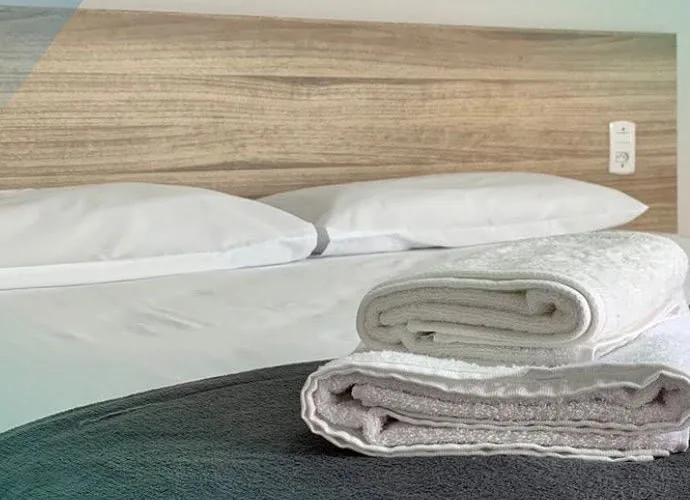
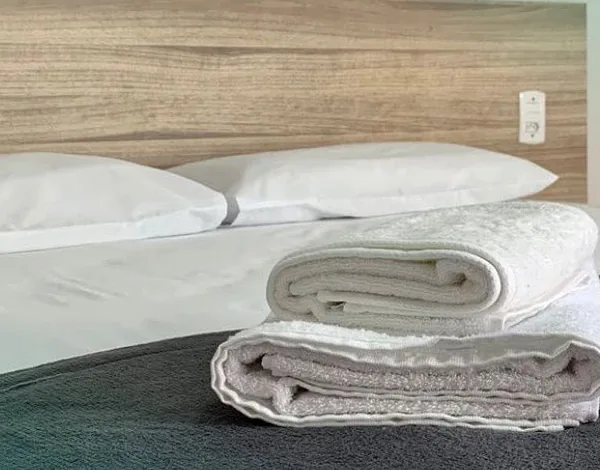
Aplica a revisão adversarial na página do Hotel Via Sul
- descrição sem "café gratuito" (só Wi-Fi e estacionamento têm fonte);
- guia: o atalho dos postos promete endereços, bandeiras e produtos,
  que é o que a página mostra (não há preço);
- distâncias separadas em todo lugar: Prefeitura a cerca de 250 m e
  Câmara a cerca de 270 m; sai o "comércio no caminho", sem fonte;
- a pergunta deixa de sugerir exclusividade ("O Hotel Via Sul fica no
  centro de Piracanjuba?"), e o h2 vira "Um hotel no centro";
- avaliações: cortes marcados com (...), sobrenome abreviado,
  "trechos selecionados de avaliações de 5 estrelas" e a atribuição
  fora da citação, em figcaption;
- fotos: legendas e textos alternativos conferidos com as imagens;
  sala de estar e cama refeitas sem restos da arte dos posts;
- schema sem ar-condicionado (fonte só nas avaliações); a FAQ deixa
  de convidar a ligar no fixo, que segue no bloco de contato;
- foco em azul-marinho nas seções claras (o turquesa não chega a 3:1),
  espaços entre textos que o CSS separa, último card de comodidades
  ocupando a linha no celular;
- IndexNow: mudanças em src/data/hotel-via-sul.ts reenviam /hotel e
  /zap-pba.

diff --git a/src/app/hotel/page.tsx b/src/app/hotel/page.tsx
@@ -36,17 +36,17 @@ const comodidades = [
 
 const fotos = [
   { src: "/quarto.webp", largura: 610, altura: 500, legenda: "Quarto com mesa de trabalho, TV e banheiro", alt: "Quarto do Hotel Via Sul com cama arrumada e toalhas, mesa de trabalho preta, TV na parede, frigobar e a porta do banheiro" },
-  { src: "/cama-toalhas.webp", largura: 690, altura: 500, legenda: "Cama arrumada com toalhas para a chegada", alt: "Cama de casal com cabeceira de madeira, travesseiros brancos e toalhas dobradas sobre a manta" },
+  { src: "/cama-toalhas.webp", largura: 600, altura: 470, legenda: "Cama arrumada com toalhas para a chegada", alt: "Cama de casal com cabeceira de madeira, travesseiros brancos e toalhas dobradas sobre a manta" },
   { src: "/salao-cafe.webp", largura: 1080, altura: 1350, legenda: "Salão do café da manhã", alt: "Salão do café da manhã com mesas de madeira, cadeiras pretas e parede de vidro" },
-  { src: "/cafe-da-manha.webp", largura: 640, altura: 800, legenda: "Pão de queijo, pão, bolo, frutas e suco", alt: "Prato com pão de queijo, pão e bolo, melancia em fatias e um copo de suco de laranja" },
-  { src: "/sala-estar.webp", largura: 1080, altura: 840, legenda: "Sala de estar perto da recepção", alt: "Sofá com almofadas azuis, cômoda de madeira e plantas na sala de estar do hotel" },
-  { src: "/recepcao-janela.webp", largura: 1080, altura: 1080, legenda: "Recepção com vista para a rua", alt: "Recepção do hotel com poltrona, planta e parede de vidro com o logotipo do Via Sul voltada para a rua" },
+  { src: "/cafe-da-manha.webp", largura: 640, altura: 800, legenda: "Pão de queijo, pão com queijo e frios, bolo, melancia e suco", alt: "Dois pratos, um com pão de queijo, pão com queijo e frios e bolo, outro com fatias de melancia, e um copo de suco" },
+  { src: "/sala-estar.webp", largura: 1080, altura: 640, legenda: "Sala de estar do hotel", alt: "Sofá marrom com manta xadrez azul-marinho, almofadas turquesa e cinza, criado-mudo de madeira e plantas" },
+  { src: "/recepcao-janela.webp", largura: 1080, altura: 1080, legenda: "Recepção com vista para a rua", alt: "Recepção do hotel com poltrona, planta em vaso e parede de vidro voltada para a rua, com o letreiro do Via Sul Hotel do lado de fora" },
 ];
 
 const perfis = [
   {
     titulo: "Viagem a trabalho",
-    texto: "Para técnicos, vendedores e quem atende o agronegócio da região: Wi-Fi gratuito, café da manhã e a Prefeitura, a Câmara e o comércio do centro a poucos minutos a pé.",
+    texto: "Para técnicos, vendedores e quem atende o agronegócio da região: Wi-Fi gratuito, café da manhã e a Prefeitura e a Câmara a poucos minutos a pé.",
   },
   {
     titulo: "Família, festas e eventos",
@@ -59,23 +59,23 @@ const perfis = [
 ];
 
 const avaliacoes = [
-  { autor: "Luan Henrique", texto: "Ótimo hotel, muito bem organizado, limpo, cafe da manha nota 10 e os recepcionistas sempre muito receptivos e atenciosos." },
-  { autor: "Rogerio Souza", contexto: "Viagem a negócios", texto: "Minha estadia foi excelente, atendimento fantástico, equipe de profissionais que estão de parabéns, pessoas educadas que deixam a gente bem à vontade." },
-  { autor: "Wesley Garcia", contexto: "Férias em casal", texto: "Foi ótimo passar uma diária neste hotel, quarto e banheiro tudo limpinho e higienizado, atendimento excelente." },
+  { autor: "Luan H.", texto: "Ótimo hotel, muito bem organizado, limpo, cafe da manha nota 10 e os recepcionistas sempre muito receptivos e atenciosos." },
+  { autor: "Rogerio S.", contexto: "Viagem a negócios", texto: "Minha estadia foi excelente, atendimento fantástico, equipe de profissionais que estão de parabéns, pessoas educadas que deixam a gente bem à vontade (...)" },
+  { autor: "Wesley G.", contexto: "Férias em casal", texto: "Foi ótimo passar uma diária neste hotel, quarto e banheiro tudo limpinho e higienizado, atendimento excelente (...)" },
 ];
 
 const guia = [
   { href: "/horarios-onibus", icone: Bus, titulo: "Horários de ônibus", texto: "Linhas que saem da Rodoviária de Piracanjuba." },
   { href: "/clima", icone: CloudSun, titulo: "Clima em Piracanjuba", texto: "Previsão para planejar a chegada e a volta." },
   { href: "/plantao-farmacias", icone: Pill, titulo: "Farmácia de plantão", texto: "Qual farmácia está aberta hoje à noite." },
-  { href: "/postos-combustivel", icone: Fuel, titulo: "Postos de combustível", texto: "Preços e endereços para abastecer na cidade." },
+  { href: "/postos-combustivel", icone: Fuel, titulo: "Postos de combustível", texto: "Endereços, bandeiras e produtos de cada posto, com dados da ANP." },
   { href: "/historia-pba", icone: Landmark, titulo: "História de Piracanjuba", texto: "Origem do nome, fé, festas e o que visitar." },
 ];
 
 const perguntas = [
   {
-    pergunta: "Qual hotel fica no centro de Piracanjuba?",
-    resposta: `O Hotel Via Sul fica no Centro de Piracanjuba, na ${H.endereco}. A Rodoviária está a cerca de 150 metros, e a Prefeitura e a Câmara Municipal, na Praça Wilson Eloy Pimenta, a cerca de 250 metros.`,
+    pergunta: "O Hotel Via Sul fica no centro de Piracanjuba?",
+    resposta: `Sim. O Hotel Via Sul fica no Centro de Piracanjuba, na ${H.endereco}. A Rodoviária está a cerca de 150 metros a pé; a Prefeitura, a cerca de 250 metros, e a Câmara Municipal, a cerca de 270 metros, as duas na Praça Wilson Eloy Pimenta.`,
   },
   {
     pergunta: "Quais são os horários de check-in e check-out?",
@@ -87,7 +87,7 @@ const perguntas = [
   },
   {
     pergunta: "Como reservar o Hotel Via Sul?",
-    resposta: `Mande pelo WhatsApp ${formatarTelefoneBr(H.whatsapp)} as datas de entrada e saída e o número de hóspedes. A recepção confirma a disponibilidade, os valores e as condições. Também dá para ligar no ${formatarTelefoneBr(H.telefoneFixo)} ou escrever para ${H.email}.`,
+    resposta: `Mande pelo WhatsApp ${formatarTelefoneBr(H.whatsapp)} as datas de entrada e saída e o número de hóspedes. A recepção confirma a disponibilidade, os valores e as condições. Também dá para escrever para ${H.email}.`,
   },
   {
     pergunta: "Qual é a nota do Hotel Via Sul no Google?",
@@ -96,7 +96,7 @@ const perguntas = [
 ];
 
 const titulo = "Hotel em Piracanjuba no Centro | Hotel Via Sul";
-const descricao = "Hotel Via Sul, hotel em Piracanjuba no Centro, a cerca de 150 m da Rodoviária. Café da manhã, Wi-Fi e estacionamento gratuitos, recepção 24h e WhatsApp.";
+const descricao = "Hotel Via Sul, hotel em Piracanjuba no Centro, a cerca de 150 m da Rodoviária. Wi-Fi e estacionamento gratuitos, café da manhã, recepção 24h e WhatsApp.";
 const compartilhamento = {
   url: portal + imagens + "/compartilhar.jpg", width: 1200, height: 630,
   alt: "Logotipo do Hotel Via Sul e a recepção do hotel em Piracanjuba",
@@ -137,7 +137,6 @@ const esquema = {
         { "@type": "LocationFeatureSpecification", name: "Wi-Fi gratuito", value: true },
         { "@type": "LocationFeatureSpecification", name: "Estacionamento gratuito", value: true },
         { "@type": "LocationFeatureSpecification", name: "Recepção 24 horas", value: true },
-        { "@type": "LocationFeatureSpecification", name: "Ar-condicionado", value: true },
       ],
       areaServed: { "@type": "City", name: "Piracanjuba", containedInPlace: { "@type": "State", name: "Goiás" } },
     },
@@ -170,7 +169,7 @@ export default function HotelViaSul() {
               <Image src={imagens + "/via-sul-logo-branco.svg"} width={683} height={163} alt="Via Sul Hotel"
                 className={s.logo} loading="eager" unoptimized />
               <h1>Hotel em Piracanjuba, no centro da cidade</h1>
-              <p className={s.lide}>O Hotel Via Sul fica no Centro de Piracanjuba, a cerca de 150 metros da Rodoviária e a cerca de 250 metros da Prefeitura e da Câmara. Recepção 24 horas, Wi-Fi e estacionamento gratuitos, e reserva direto com o hotel pelo WhatsApp.</p>
+              <p className={s.lide}>O Hotel Via Sul fica no Centro de Piracanjuba, a cerca de 150 metros da Rodoviária, 250 metros da Prefeitura e 270 metros da Câmara. Recepção 24 horas, Wi-Fi e estacionamento gratuitos, e reserva direto com o hotel pelo WhatsApp.</p>
               <div className={s.acoes}>
                 <a id={ID_BOTAO_TOPO} href={whatsapp} className={s.botao}><WhatsAppIcon fill="currentColor" /> Reservar pelo WhatsApp</a>
                 <a href={H.mapa} className={s.atalho}><Navigation size={16} aria-hidden="true" /> Como chegar</a>
@@ -198,13 +197,13 @@ export default function HotelViaSul() {
         <div className={s.largura}>
           <div className={s.respostaGrade}>
             <div>
-              <h2 id="titulo-resposta">Qual hotel fica no centro de Piracanjuba?</h2>
-              <p>O Hotel Via Sul está na {H.endereco}, no Centro. Quem chega de ônibus desce na Rodoviária e caminha cerca de 150 metros até a recepção. A Prefeitura e a Câmara Municipal, na Praça Wilson Eloy Pimenta, ficam a cerca de 250 metros, e o comércio do centro está no caminho.</p>
+              <h2 id="titulo-resposta">Um hotel no centro de Piracanjuba</h2>
+              <p>O Hotel Via Sul está na {H.endereco}, no Centro. Quem chega de ônibus desce na Rodoviária e caminha cerca de 150 metros até a recepção. A Prefeitura e a Câmara Municipal, na Praça Wilson Eloy Pimenta, ficam a cerca de 250 e 270 metros.</p>
             </div>
             <ul className={s.distancias} aria-label="Distâncias a pé a partir do hotel">
-              <li><strong>150 m</strong><span>Rodoviária de Piracanjuba</span></li>
-              <li><strong>250 m</strong><span>Prefeitura, na Praça Wilson Eloy Pimenta</span></li>
-              <li><strong>270 m</strong><span>Câmara Municipal, na mesma praça</span></li>
+              <li><strong>150 m</strong>{" "}<span>Rodoviária de Piracanjuba</span></li>
+              <li><strong>250 m</strong>{" "}<span>Prefeitura, na Praça Wilson Eloy Pimenta</span></li>
+              <li><strong>270 m</strong>{" "}<span>Câmara Municipal, na mesma praça</span></li>
             </ul>
           </div>
         </div>
@@ -262,15 +261,15 @@ export default function HotelViaSul() {
         <div className={s.largura}>
           <div className={s.cabecalhoAvaliacoes}>
             <h2 id="titulo-avaliacoes">O que dizem os hóspedes</h2>
-            <p><strong>{H.avaliacoesGoogle.nota} de 5</strong> no Google, com {H.avaliacoesGoogle.total} avaliações, em {H.avaliacoesGoogle.conferidoEm}.</p>
+            <p><strong>{H.avaliacoesGoogle.nota} de 5</strong> no Google, com {H.avaliacoesGoogle.total} avaliações, em {H.avaliacoesGoogle.conferidoEm}. Abaixo, trechos selecionados de avaliações de 5 estrelas.</p>
           </div>
           <ul className={s.listaAvaliacoes}>
             {avaliacoes.map(({ autor, contexto, texto }) => (
               <li key={autor}>
-                <blockquote>
-                  <p>{texto}</p>
-                  <footer>{autor}{contexto ? <span>{contexto}</span> : null}</footer>
-                </blockquote>
+                <figure>
+                  <blockquote><p>{texto}</p></blockquote>
+                  <figcaption>{autor}{" "}<span>{contexto ? contexto + ", " : ""}avaliação no Google</span></figcaption>
+                </figure>
               </li>
             ))}
           </ul>
@@ -287,7 +286,7 @@ export default function HotelViaSul() {
               <li key={href}>
                 <Link href={href}>
                   <Icone size={20} strokeWidth={1.7} aria-hidden="true" />
-                  <span><strong>{item}</strong>{texto}</span>
+                  <span><strong>{item}</strong>{" "}{texto}</span>
                 </Link>
               </li>
             ))}

diff --git a/src/app/hotel/pagina.module.css b/src/app/hotel/pagina.module.css
@@ -24,6 +24,8 @@
 .pagina ul { padding: 0; list-style: none; }
 .pagina :is(a, summary):focus-visible { outline: 3px solid var(--turquesa); outline-offset: 4px; }
 .pagina section[id] { scroll-margin-top: 5.5rem; }
+/* Nas seções claras o turquesa não chega a 3:1: o foco usa o azul-marinho. */
+.pagina :is(.resposta, .comodidades, .fotos, .perfis, .guia, .perguntas) :is(a, summary):focus-visible { outline-color: var(--marinho); }
 .largura { width: min(88%, 1120px); margin-inline: auto; }
 .pagina h2 {
   font-family: var(--titulo);
@@ -184,10 +186,11 @@
 .cabecalhoAvaliacoes p { color: #c9d3ea; }
 .cabecalhoAvaliacoes strong { color: #fff; }
 .listaAvaliacoes { display: grid; grid-template-columns: repeat(3, 1fr); gap: clamp(1rem, 2.4vw, 1.6rem); margin-top: clamp(1.6rem, 3vw, 2.2rem) !important; }
-.listaAvaliacoes blockquote { height: 100%; padding: 1.4rem 1.4rem 1.2rem; border-radius: 14px; background: rgb(255 255 255 / .06); border: 1px solid rgb(255 255 255 / .12); }
+.listaAvaliacoes figure { height: 100%; padding: 1.4rem 1.4rem 1.2rem; border-radius: 14px; background: rgb(255 255 255 / .06); border: 1px solid rgb(255 255 255 / .12); }
+.listaAvaliacoes blockquote { margin: 0; }
 .listaAvaliacoes p { font-size: 1.02rem; line-height: 1.6; }
-.listaAvaliacoes footer { display: flex; flex-wrap: wrap; gap: 4px 10px; margin-top: 1rem; color: var(--turquesa); font-size: .9rem; font-weight: 700; }
-.listaAvaliacoes footer span { color: #aebadb; font-weight: 500; }
+.listaAvaliacoes figcaption { display: flex; flex-wrap: wrap; gap: 4px 10px; margin-top: 1rem; color: var(--turquesa); font-size: .9rem; font-weight: 700; }
+.listaAvaliacoes figcaption span { color: #aebadb; font-weight: 500; }
 .linkFonte { display: inline-flex; align-items: center; gap: 7px; min-height: 44px; margin-top: 1.4rem; color: #fff; font-weight: 600; }
 
 /* Guia do hóspede */
@@ -275,6 +278,7 @@
   .acoes { flex-direction: column; align-items: stretch; }
   .atalho { justify-content: flex-start; }
   .listaComodidades { grid-template-columns: 1fr 1fr; }
+  .listaComodidades li:last-child:nth-child(odd) { grid-column: 1 / -1; }
   .galeria { grid-template-columns: 1fr; }
   .horarios { padding: 12px 12px; }
   .horarios div + div { padding-left: 10px; }

diff --git a/src/data/llms.ts b/src/data/llms.ts
@@ -354,7 +354,7 @@ export const SECOES_LLMS: SecaoLlms[] = [
       {
         caminho: "/hotel",
         titulo: "Hotel Via Sul, hotel em Piracanjuba no Centro",
-        descricao: "Hotel no Centro de Piracanjuba, na Rua Vereador Hugo Vargas Batista Machado, a cerca de 150 metros da Rodoviária e 250 metros da Prefeitura e da Câmara. Check-in a partir das 14h, check-out até as 12h, recepção 24 horas, Wi-Fi e estacionamento gratuitos, café da manhã, fotos dos quartos e reserva pelo WhatsApp.",
+        descricao: "Hotel no Centro de Piracanjuba, na Rua Vereador Hugo Vargas Batista Machado, a cerca de 150 metros da Rodoviária, 250 metros da Prefeitura e 270 metros da Câmara. Check-in a partir das 14h, check-out até as 12h, recepção 24 horas, Wi-Fi e estacionamento gratuitos, café da manhã, fotos dos quartos e reserva pelo WhatsApp.",
       },
       {
         caminho: "/estacionamentoaeroporto",
